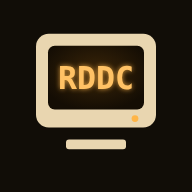
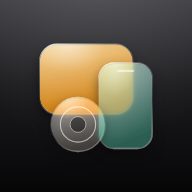
Nuova icona: tre lastre di vetro su fondo nero-grigio
- Schermo, palmare e ghiera come vetro sovrapposto (sfocatura di ciò che
  sta dietro, bordo luminoso, riflesso, ombra), su fondo nero-grigio.
- File: icon.svg, PNG 192/512, versioni maskable (disegno più raccolto per
  il ritaglio tondo di Android), monocromatica per le icone a tema,
  apple-touch-icon 180 e favicon 32; manifest con gli scopi separati.

Claude-Session: https://claude.ai/code/session_014KuWofuGoEEWU311u5tiN4

diff --git a/index.html b/index.html
@@ -7,7 +7,8 @@
 <meta name="theme-color" content="#15100a" media="(prefers-color-scheme: dark)">
 <link rel="manifest" href="manifest.webmanifest">
 <link rel="icon" href="icon.svg" type="image/svg+xml">
-<link rel="apple-touch-icon" href="icon-192.png">
+<link rel="icon" href="favicon-32.png" sizes="32x32" type="image/png">
+<link rel="apple-touch-icon" href="apple-touch-icon.png">
 <title>RDDC – Collezione vintage</title>
 <style>
 :root{color-scheme:light;--bg:#f5ede0;--ink:#22180a;--mute:#76674f;--acc:#f2a531;--acc-ink:#9a5800;--on-acc:#2b1a02;--acc2:#3d7a66;--dng:#c0352b;--glow:rgba(242,165,49,.45);
@@ -713,7 +714,7 @@ const esc=s=>String(s==null?'':s).replace(/[&<>"']/g,c=>({'&':'&amp;','<':'&lt;'
 /* versione dell'app: a ogni modifica sale (1.1, 1.2…; 2.0 per i cambi grandi). Deve coincidere con V in sw.js */
 const APP_VER='2.0';
 const NOVITA=[
- ['2.0','2026-11-14',['Nuova grafica Liquid Glass da capo: sfondo con macchie di colore, superfici di vetro, titolo grande, ricerca a capsula con pulsanti tondi e icone disegnate, barra in basso fluttuante con Collezione/Wishlist e il + a parte, intestazioni che sfumano','Errori spiegati: cosa è successo, cosa fare, dettagli tecnici da copiare e Riprova; Menu → Registro errori','Gemini: se un modello ha finito le richieste gratuite (o non le ha) passa da solo a un altro e se lo ricorda fino all\'azzeramento; «Salva e prova» fa una prova vera e mostra quali modelli rispondono']],
+ ['2.0','2026-11-14',['Nuova icona: schermo, palmare e ghiera come tre lastre di vetro su fondo nero, con la versione tonda e quella monocromatica per le icone a tema di Android','Nuova grafica Liquid Glass da capo: sfondo con macchie di colore, superfici di vetro, titolo grande, ricerca a capsula con pulsanti tondi e icone disegnate, barra in basso fluttuante con Collezione/Wishlist e il + a parte, intestazioni che sfumano','Errori spiegati: cosa è successo, cosa fare, dettagli tecnici da copiare e Riprova; Menu → Registro errori','Gemini: se un modello ha finito le richieste gratuite (o non le ha) passa da solo a un altro e se lo ricorda fino all\'azzeramento; «Salva e prova» fa una prova vera e mostra quali modelli rispondono']],
  ['1.1','2026-11-14',['Vetro liquido: barra in alto, pulsante +, avvisi, dialoghi, intestazioni e pulsanti sulle foto deformano e illuminano quello che passa sotto (Menu → Aspetto)','La goccia del selettore Collezione/Wishlist scorre e si allunga; i pulsanti rimbalzano quando li premi','✨ Chiedi a Gemini: cerca sul web e compila la scheda degli oggetti rari (serve una chiave API, Menu → Gemini)']],
  ['1.0','2026-11-11',['Numero di versione accanto al logo e nel menu','Laboratorio: collaudi, progetti di restauro, lista della spesa, statistiche ed esportazioni CSV','Manutenzione: giro di accensioni e ricariche con promemoria e calendario','Scheda «Oggi», ruolo, raccolte, «Va con» per esemplare','Animazioni e note per ogni annuncio','Foto orizzontali piene nelle anteprime della griglia']]];
 const uid=()=>(crypto.randomUUID?crypto.randomUUID():Date.now().toString(36)+Math.random().toString(36).slice(2));

diff --git a/sw.js b/sw.js
@@ -1,4 +1,4 @@
-const V='rddc-2.0',SHELL=['./','index.html','manifest.webmanifest','icon.svg','icon-192.png','icon-512.png'];
+const V='rddc-2.0',SHELL=['./','index.html','manifest.webmanifest','icon.svg','icon-192.png','icon-512.png','icon-maskable-512.png','apple-touch-icon.png'];
 self.addEventListener('install',e=>{e.waitUntil(caches.open(V).then(c=>c.addAll(SHELL.map(u=>new Request(u,{cache:'reload'})))).then(()=>self.skipWaiting()))});
 self.addEventListener('activate',e=>{e.waitUntil(caches.keys().then(k=>Promise.all(k.filter(x=>x!==V&&x!=='rddc-share'&&x!=='rddc-meta').map(x=>caches.delete(x)))).then(()=>self.clients.claim()))});
 /* prima la rete, saltando la cache HTTP (così un aggiornamento arriva subito); offline usa la copia salvata */

diff --git a/README.md b/README.md
@@ -150,6 +150,7 @@ export default {
 Nell'app basta incollare l'indirizzo del worker (es. `https://rddc.tuonome.workers.dev`) in Menu → Impostazioni e premere «Prova la ricerca». Il codice si copia anche direttamente dall'app.
 
 ## Grafica (2.0): Liquid Glass
+- **Icona**: schermo, palmare e ghiera come tre lastre di vetro sovrapposte su fondo nero-grigio (`icon.svg`, PNG da 192 e 512). C'è la versione «maskable», ritagliabile tonda da Android senza perdere niente, e quella monocromatica per le icone a tema (Android le colora con i colori dello sfondo).
 Dalla versione 2.0 l'interfaccia è ridisegnata da capo attorno al vetro liquido, con le stesse funzioni di prima:
 - sfondo con macchie di colore morbide (ambra, terracotta, verde), diverse in chiaro e in scuro;
 - tutte le superfici (schede della lista, griglia, tabelle, liste, note, campi, pulsanti, finestre) sono di vetro: traslucide, con il bordo luminoso e angoli più tondi;
